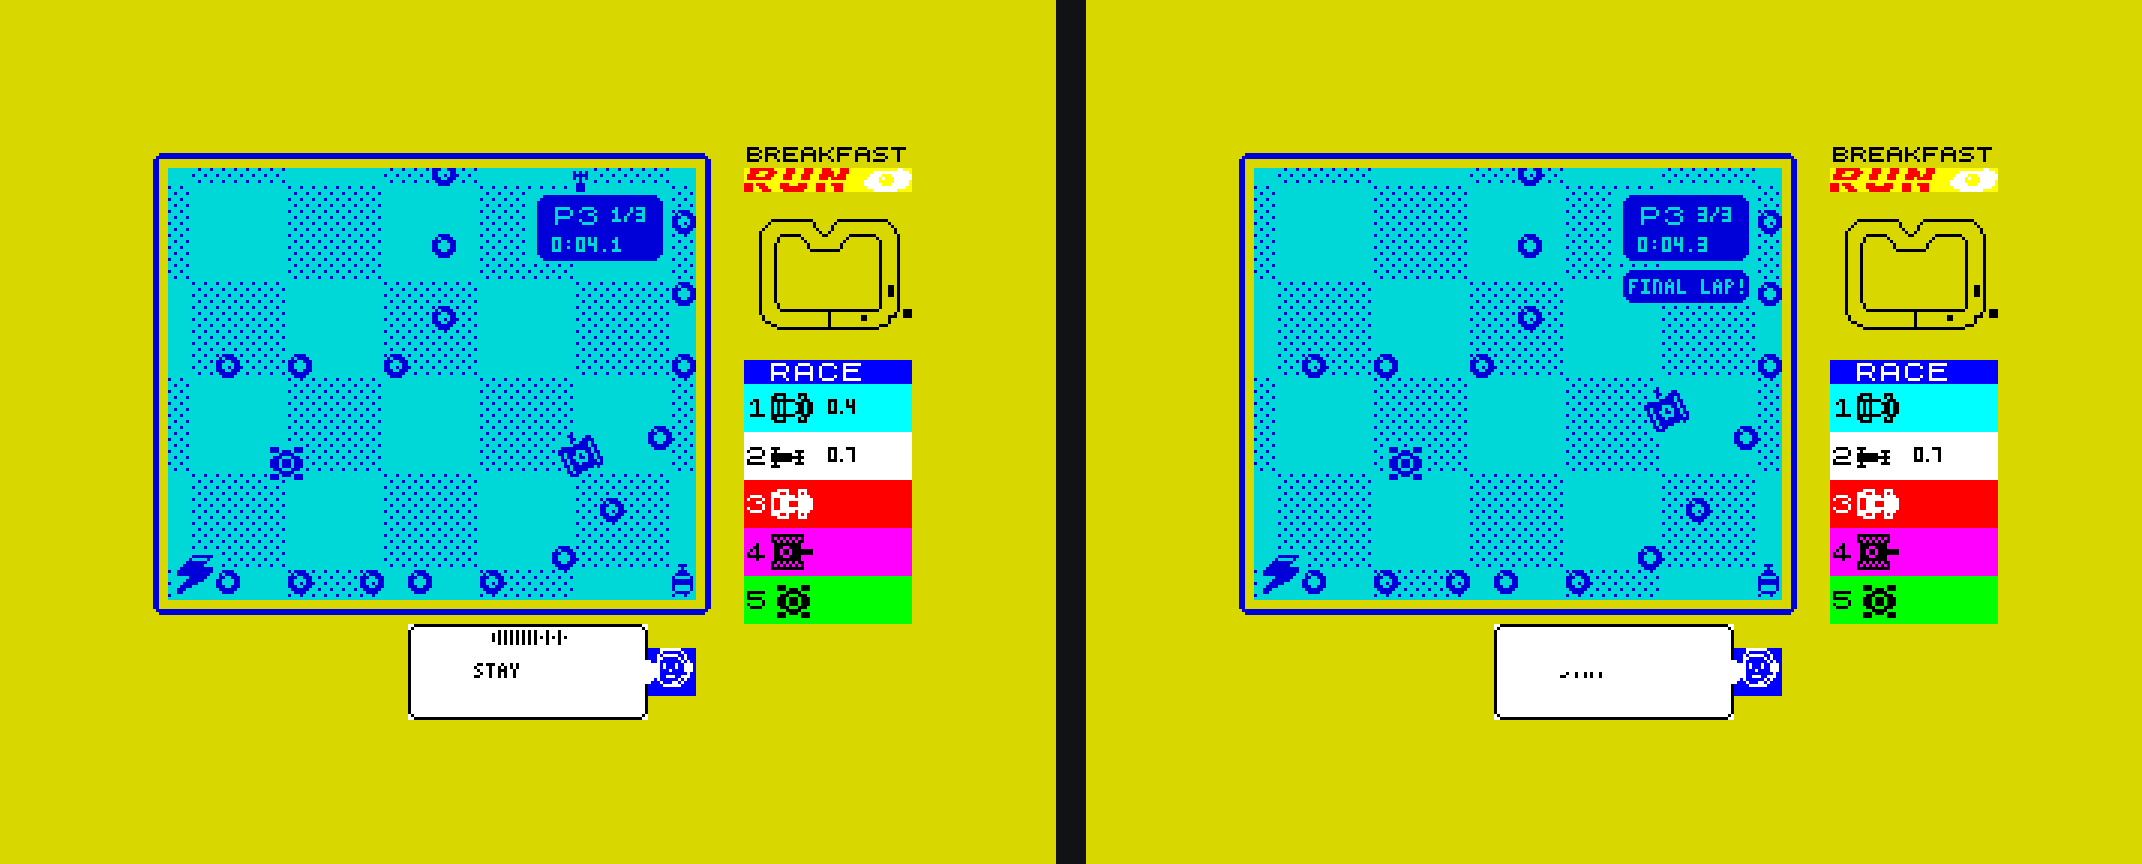
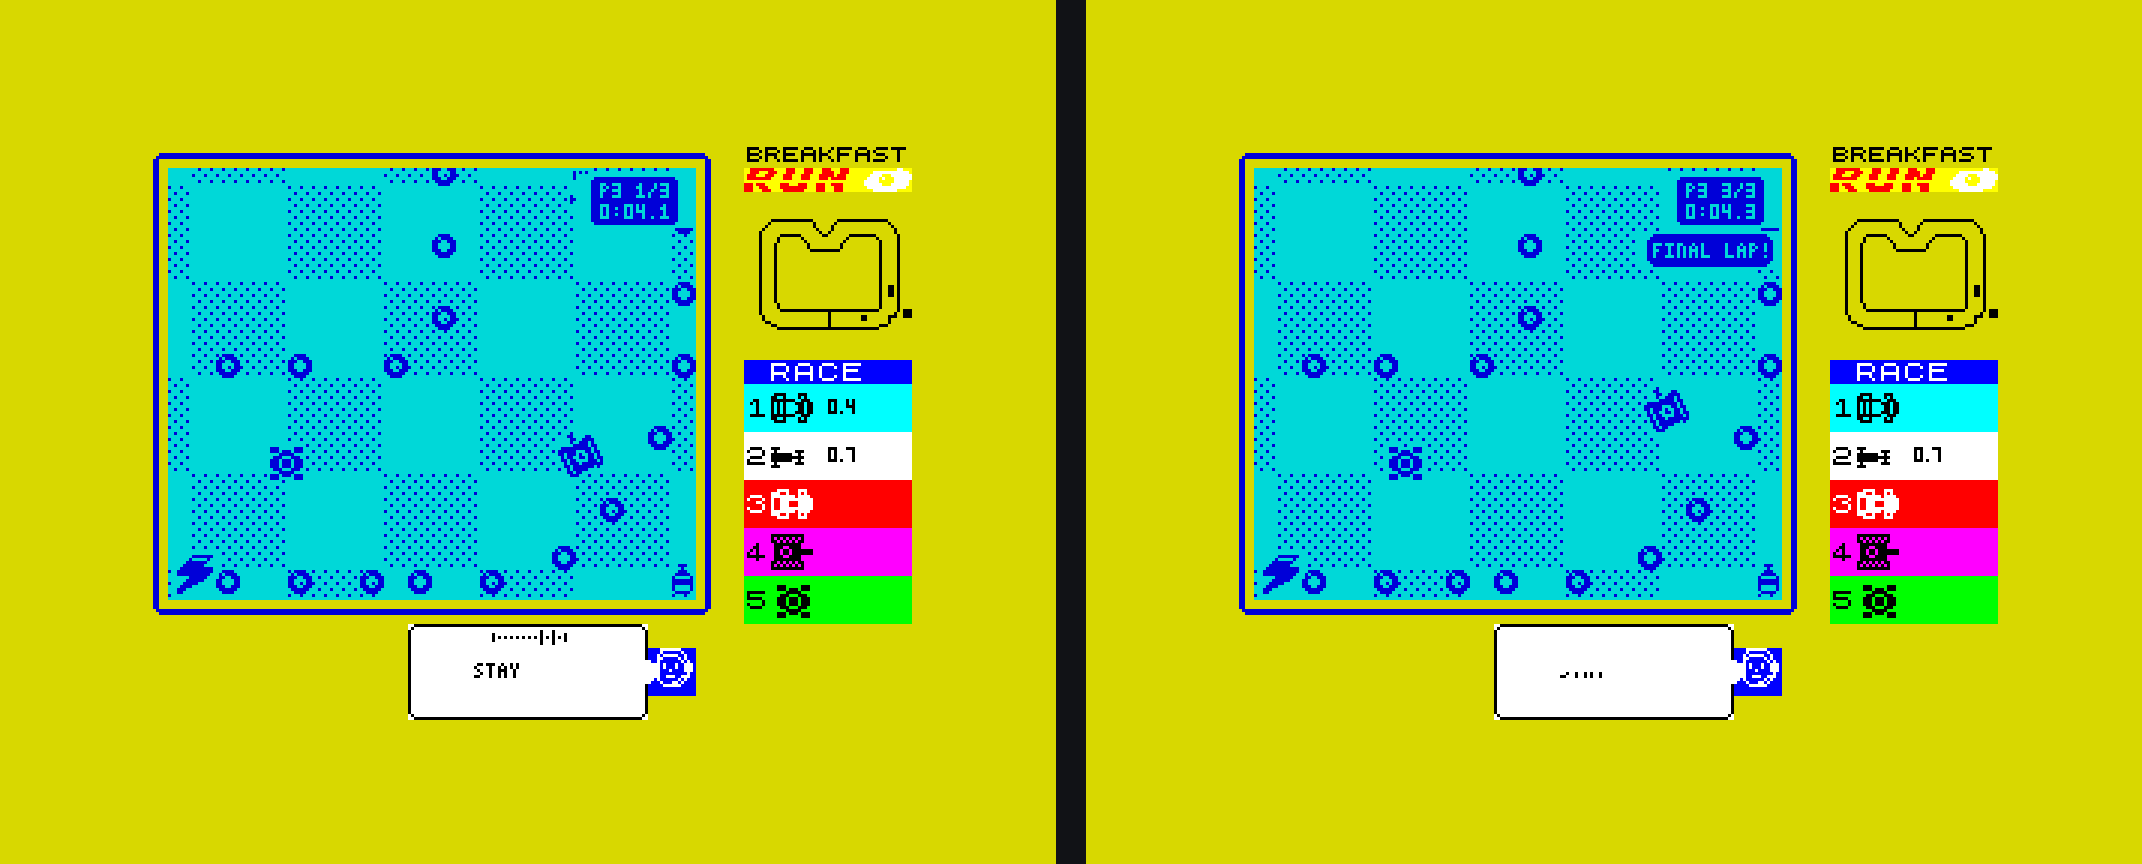
The place plate smaller (small P1, a thinner border) and in the window's corner
Claude-Session: https://claude.ai/code/session_01476U86GiAC8cKs57wAJvc3

Changed region(s): [[0.7395, 0.1875, 0.8319, 0.375], [0.2465, 0.1875, 0.3389, 0.3125], [0.2157, 0.7188, 0.2773, 0.75]]

diff --git a/tests/plate_test.py b/tests/plate_test.py
@@ -11,8 +11,8 @@ fails = 0
 def ok(c, m):
     global fails
     print('PASS' if c else 'FAIL', m); fails += 0 if c else 1
-def plate(sp): return screen_bits(sp)[WY + 8:WY + 32, 8 + 120:8 + 168].astype(bool)      # its 48 x 24 patch
-def msg(sp): return screen_bits(sp)[WY + 33:WY + 46, 8 + 120:8 + 168].astype(bool)
+def plate(sp): return screen_bits(sp)[WY + 2:WY + 20, 8 + 136:8 + 176].astype(bool)      # its 40 x 18 patch
+def msg(sp): return screen_bits(sp)[WY + 21:WY + 34, 8 + 128:8 + 176].astype(bool)
 with Racer(headless=True) as sp:
     sp.load_tape(TAP); t = 0
     while g(sp, 'renders') == 0 and t < 60: sp.run(duration=0.1, fast_forward=True); t += 0.1
@@ -28,9 +28,9 @@ with Racer(headless=True) as sp:
             sp.write(SYM['position'], bytes([pos])); sp.write(CARS + SYM['c_laps'], bytes([lap])); sp.write(SYM['msg_timer'], bytes([0]))
             at_copy_done(sp); p = plate(sp); seen[(pos, lap)] = p.tobytes()
             if (pos, lap) == (2, 2):
-                solid = p[3:22, 4:44]                 # inside the plate: mostly lit, the letters cut out of it
-                ok(not p[0].any() and not p[23].any() and not p[:, 0:3].any() and not p[:, 45:48].any() and p[1, 5:43].all() and not p[1, 3:5].any() and 0.55 < solid.mean() < 0.95,
-                   'P2, lap 2: a solid plate 42 x 22 with rounded corners, 3 clear pixels each side and a clear line above and below, its letters cut out (%.0f%% of its inside lit)' % (100 * solid.mean()))
+                solid = p[2:16, 5:34]                 # inside the plate: mostly lit, the letters cut out of it
+                ok(not p[0].any() and not p[17].any() and not p[:, 0:5].any() and not p[:, 34:40].any() and p[2, 5:34].all() and p[1, 6:33].all() and not p[1, 5] and 0.55 < solid.mean() < 0.95,
+                   'P2, lap 2: a solid plate 29 x 16 with rounded corners in the top right corner, clear table round it, its small letters cut out (%.0f%% of its inside lit)' % (100 * solid.mean()))
     laps = len({seen[(2, lap)] for lap in (1, 2, 3)}); places = len({seen[(pos, 1)] for pos in (1, 2, 3, 4, 5)})
     ok(laps == 3 and places >= 4, 'the plate changes with the lap (%d of 3 differ) and with the place (%d of 5 differ; the game works your place out afresh as the test writes it)' % (laps, places))
     sp.write(SYM['msg_timer'], bytes([0])); at_copy_done(sp); quiet = msg(sp).copy()

diff --git a/tools/make_plate.py b/tools/make_plate.py
@@ -29,7 +29,7 @@ def db(f, name, cols, note):
 S = os.path.join(HERE, '..', 'src')
 with open(os.path.join(S, 'plate_low.asm'), 'w') as f:
     f.write('; GENERATED by tools/make_plate.py - the place plate\'s small figures: 5 bytes each (its 5 rows), in\n; bits 7-5; pl_pair puts a second one beside it in bits 3-1. 0-9, then : . / and a blank\n')
-    db(f, 'pl_g', [strip(ch, 0, 1)[0] for ch in '0123456789:./ '], '0 1 2 3 4 5 6 7 8 9 : . / and a blank')
+    db(f, 'pl_g', [strip(ch, 0, 1)[0] for ch in '0123456789:./ P'], '0 1 2 3 4 5 6 7 8 9 : . / a blank and P')
 with open(os.path.join(S, 'plate_td.asm'), 'w') as f:
     f.write('; GENERATED by tools/make_plate.py - kept in the table block at TD (racer.asm gives pl_msg)\n')
     db(f, 'pl_msg_src', strip('FINAL LAP!', 5, 6), 'FINAL LAP! from pixel 5: 6 columns')

diff --git a/tests/drive_test.py b/tests/drive_test.py
@@ -166,8 +166,8 @@ def window_bad(sp):
     mask[8 - WY:32 - WY, 56 - 8:136 - 8] = False     # the start lights (row 1's rail, rows 2-3's lamps)
     mask[139 - WY:151 - WY, 160 - 8:184 - 8] = False  # the NOS canisters in the corner
     mask[WH - 17:WH, 0:24] = False                    # the health gauge in the other corner
-    mask[8:32, 120:168] = False                       # your place on its plate, top right
-    mask[33:46, 120:168] = False                      # ... and its message's plate
+    mask[2:20, 136:176] = False                       # your place on its plate, in the top right corner
+    mask[21:34, 128:176] = False                      # ... and its message's plate
     for n in range(N):
         c = car(sp, n)
         cx, cy = c['x'] - camx, c['y'] - camy

diff --git a/PROJECT-LOG.md b/PROJECT-LOG.md
@@ -1540,3 +1540,9 @@ Authoritative log for this workstream (house rule 5.2). Newest at the bottom. Ti
 - Music: still off in the race (OPT_MUSIC). Grant: "need to figure out how to make the music
   come through during the game." Not solved on the beeper. Proposed: the AY sound chip (128K
   machines, or a 48K with one): held notes in three voices for a few hundred T a frame.
+- Later still: Grant: "can we make the P1 smaller, so that the display can be a bit smaller. Also
+  is it possible to shift it more towards the corner and have a smaller blue border around it?"
+  The plate is now 29 x 16: "P1 2/3" and the lap time both in the small figures, 2 pixels of
+  blue round them; 6 pixels in from the window's right edge and 3 down from its top (pl_bmp 5
+  bytes x 18 rows; PL_B, PL_W, PL_H). The message's plate moved up under it (PL_M, PL_MT).
+  zxlap alone: 240 pictures at 3 frames / 79 at 4.
